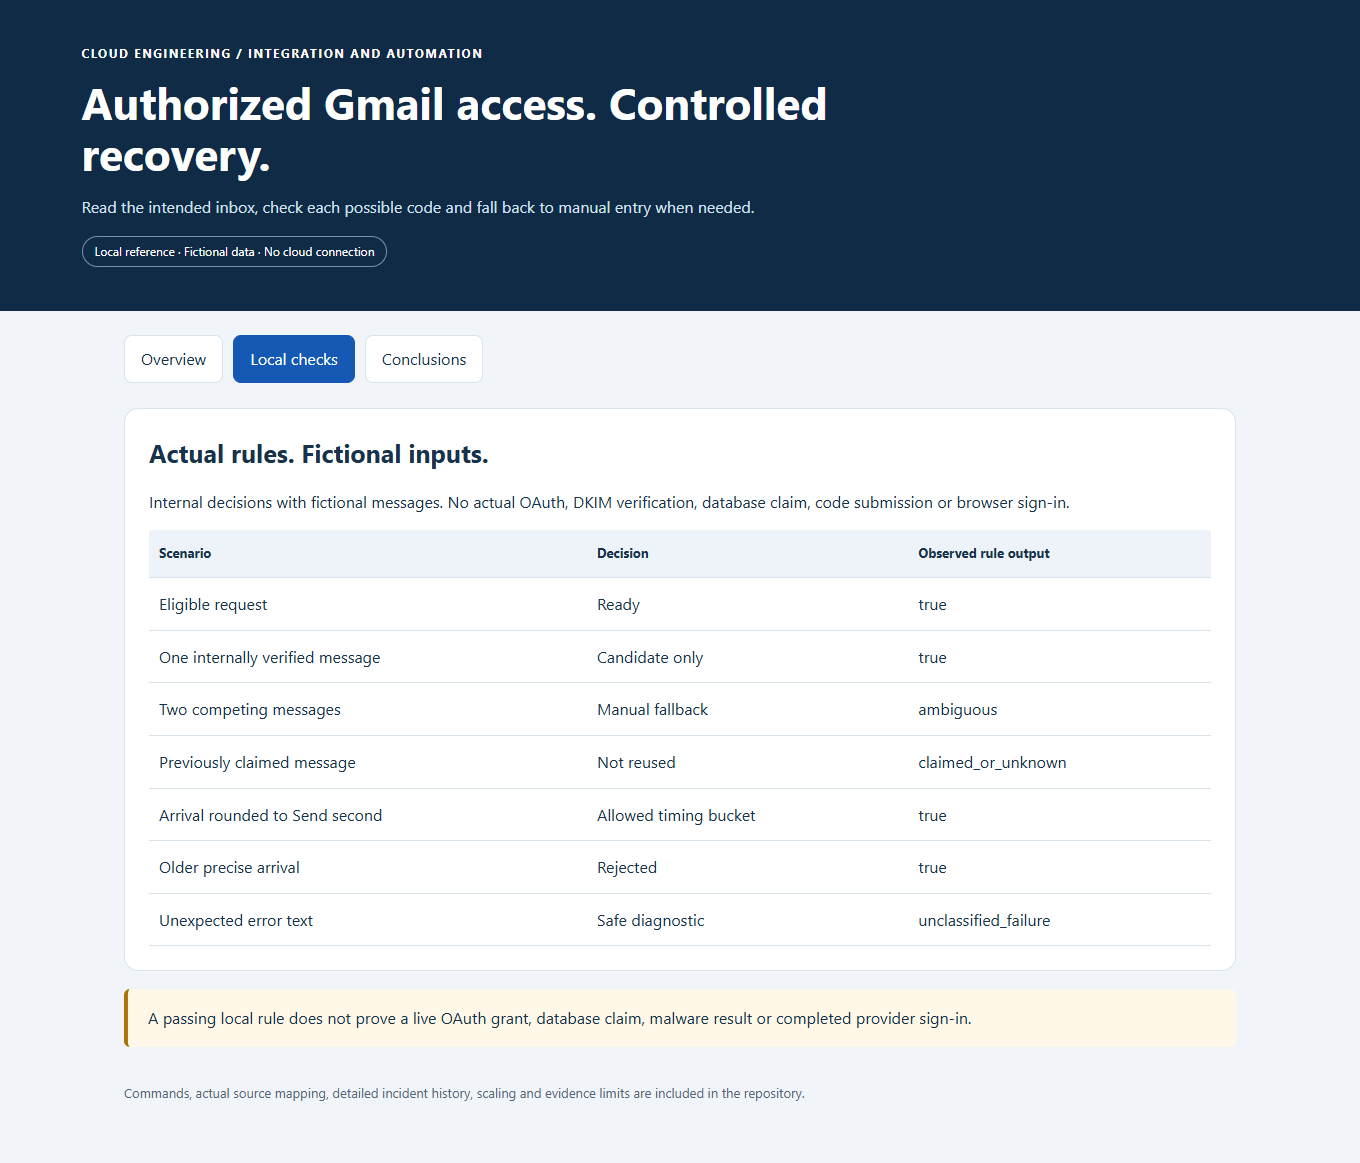
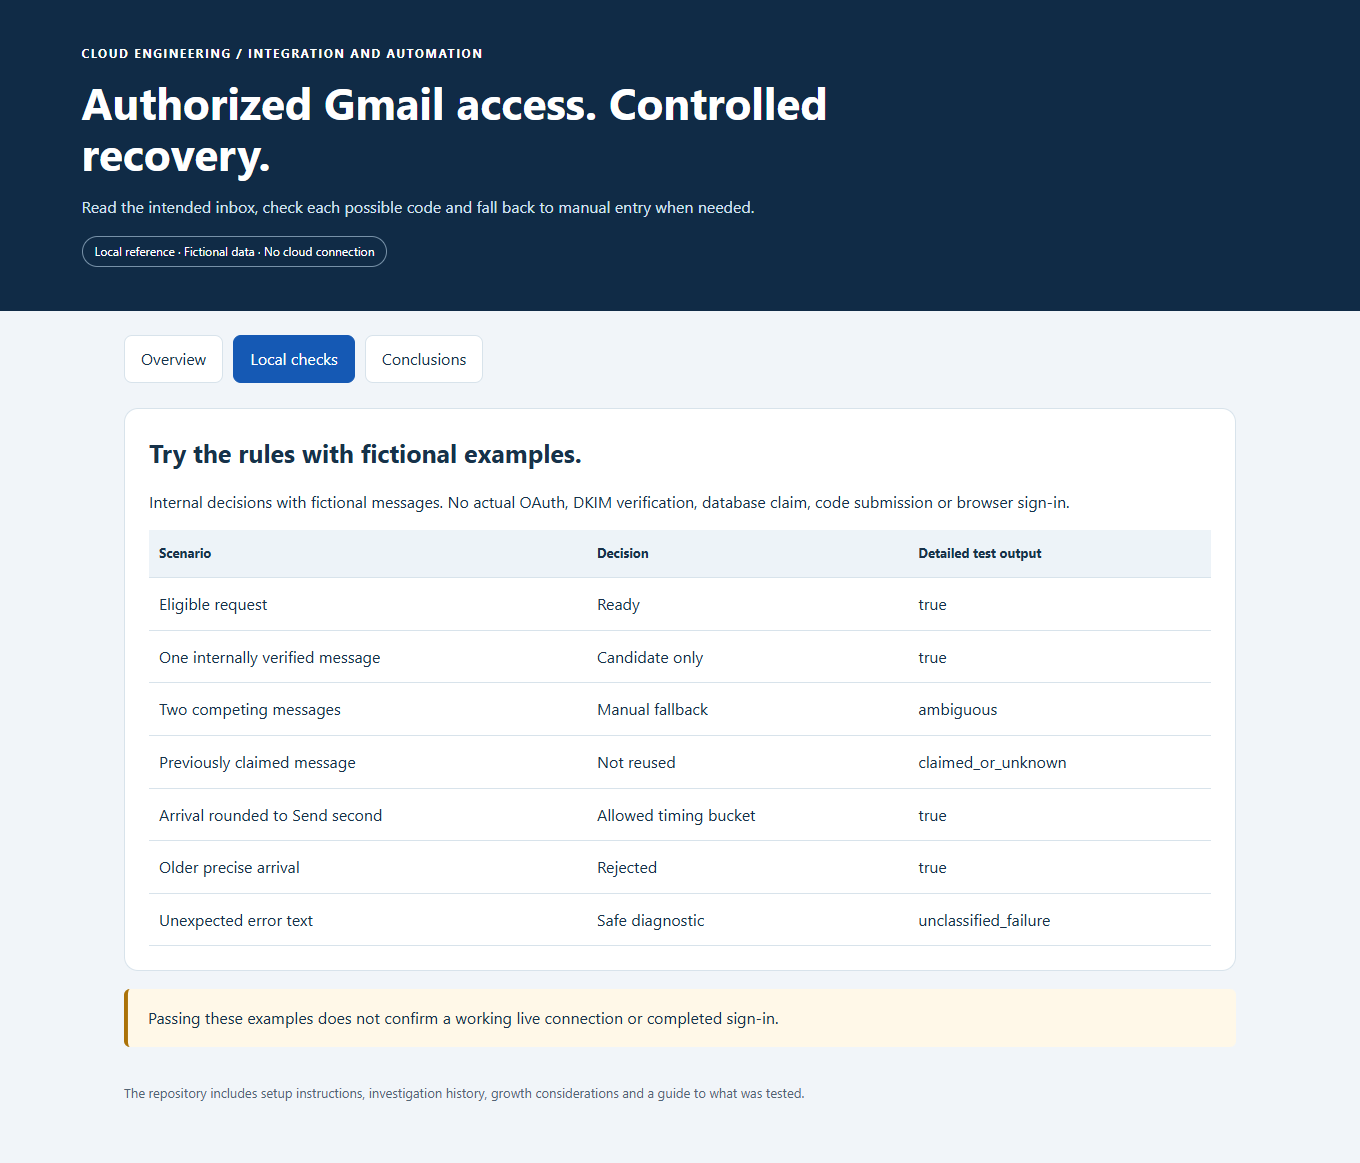
Lead with plain business explanations and retain technical detail separately

diff --git a/preview/index.html b/preview/index.html
@@ -3,8 +3,8 @@
 </style></head><body>
     <header><div class="eyebrow">Cloud engineering / Integration and automation</div><h1>Authorized Gmail access. Controlled recovery.</h1><p>Read the intended inbox, check each possible code and fall back to manual entry when needed.</p><span class="pill">Local reference · Fictional data · No cloud connection</span></header><main>
     <nav role="tablist" aria-label="Project sections"><button id="tab-overview" role="tab" aria-controls="overview" aria-selected="true">Overview</button><button id="tab-checks" role="tab" aria-controls="checks" aria-selected="false">Local checks</button><button id="tab-conclusions" role="tab" aria-controls="conclusions" aria-selected="false">Conclusions</button></nav>
-    <section id="overview" role="tabpanel" aria-labelledby="tab-overview"><div class="grid"><article class="card"><div class="big">1</div><p>Store authorization in Key Vault; verify the actual mailbox before reading.</p></article><article class="card"><div class="big">2</div><p>Select a fresh, verified message that matches the current reconnect attempt.</p></article><article class="card"><div class="big">3</div><p>Use the code once and encrypt it before passing it to the browser worker.</p></article></div><article class="box"><h2>Two related integrations. Different outcomes.</h2><p>The original document path uses Logic Apps, a custom Gmail connector, classification and quarantine. The later MFA attempt encountered connector creation failures and moved to direct Gmail API access.</p><p>Reusing an OAuth application does not share mailbox permission or processing history. Each integration must be authorized and checked separately.</p></article><div class="note"><strong>What this preview shows:</strong> Actual selected source and dated conclusions are included. This viewer performs no mailbox reads, code requests or cloud operations.</div></section>
-    <section id="checks" role="tabpanel" aria-labelledby="tab-checks" hidden><div class="box"><h2>Actual rules. Fictional inputs.</h2><p id="scope"></p><div class="table-wrap"><table><thead><tr><th>Scenario</th><th>Decision</th><th>Observed rule output</th></tr></thead><tbody id="results"></tbody></table></div></div><div class="note">A passing local rule does not prove a live OAuth grant, database claim, malware result or completed provider sign-in.</div></section>
-    <section id="conclusions" role="tabpanel" aria-labelledby="tab-conclusions" hidden><div class="box"><h2>What failed, what changed and what remains separate</h2><div class="step"><div class="number">1</div><div><h3>Attachment identity</h3><p>Keep the raw Gmail ID intact; use a separate fixed-size hash for storage.</p></div></div><div class="step"><div class="number">2</div><div><h3>Connector failure</h3><p>A valid connector definition did not resolve the HTTP 500 error during Azure resource creation.</p></div></div><div class="step"><div class="number">3</div><div><h3>MFA conclusion</h3><p>Direct Gmail retrieval removed the MFA connector dependency, while document handover stayed separate.</p></div></div><div class="step"><div class="number">4</div><div><h3>Time and competing sign-ins</h3><p>Correct timestamp precision; reject ambiguous messages rather than guessing.</p></div></div></div><div class="note"><strong>Unresolved connector cause:</strong> Azure creation failed before consent. Direct Gmail was a different path for MFA, not proof of a connector repair.</div></section>
-    <footer>Commands, actual source mapping, detailed incident history, scaling and evidence limits are included in the repository.</footer></main>
+    <section id="overview" role="tabpanel" aria-labelledby="tab-overview"><div class="grid"><article class="card"><div class="big">1</div><p>Store the mailbox permission securely, then confirm that the application reached the intended inbox.</p></article><article class="card"><div class="big">2</div><p>Select a fresh, verified message that matches the current reconnect attempt.</p></article><article class="card"><div class="big">3</div><p>Protect the code and use it once to complete the sign-in.</p></article></div><article class="box"><h2>Two related integrations. Different outcomes.</h2><p>One project files email documents. Another helps restore a business sign-in using an emailed code. They share some history, but use different processing steps and have different results.</p><p>Using the same Google application does not automatically share mailbox permission or processing records. Each connection must be authorized and checked separately.</p></article><div class="note"><strong>What this preview shows:</strong> The repository includes selected implementation code and historical results. This viewer uses fictional data and does not read email or connect to cloud services.</div></section>
+    <section id="checks" role="tabpanel" aria-labelledby="tab-checks" hidden><div class="box"><h2>Try the rules with fictional examples.</h2><p id="scope"></p><div class="table-wrap"><table><thead><tr><th>Scenario</th><th>Decision</th><th>Detailed test output</th></tr></thead><tbody id="results"></tbody></table></div></div><div class="note">Passing these examples does not confirm a working live connection or completed sign-in.</div></section>
+    <section id="conclusions" role="tabpanel" aria-labelledby="tab-conclusions" hidden><div class="box"><h2>What failed, what changed and what remains separate</h2><div class="step"><div class="number">1</div><div><h3>Original attachment references</h3><p>Keep the original attachment reference so the right file can be retrieved again.</p></div></div><div class="step"><div class="number">2</div><div><h3>Connector failure</h3><p>Azure returned a server error while creating the connection. A valid setup file did not fix it.</p></div></div><div class="step"><div class="number">3</div><div><h3>Separate sign-in recovery</h3><p>Direct Gmail access became the sign-in recovery approach. It did not repair the document connection.</p></div></div><div class="step"><div class="number">4</div><div><h3>Time and competing sign-ins</h3><p>Account for rounded email times and ask for manual help when more than one code could apply.</p></div></div></div><div class="note"><strong>Unresolved connector cause:</strong> The connection could not be created, before mailbox permission could be granted. Direct Gmail access was a separate approach, not a connector repair.</div></section>
+    <footer>The repository includes setup instructions, investigation history, growth considerations and a guide to what was tested.</footer></main>
     <script>const tabs=[...document.querySelectorAll('[role=tab]')];function select(tab){for(const t of tabs){t.setAttribute('aria-selected',String(t===tab));document.getElementById(t.getAttribute('aria-controls')).hidden=t!==tab}}for(const tab of tabs){tab.addEventListener('click',()=>select(tab));tab.addEventListener('keydown',e=>{if(['ArrowLeft','ArrowRight'].includes(e.key)){e.preventDefault();const next=tabs[(tabs.indexOf(tab)+(e.key==='ArrowRight'?1:-1)+tabs.length)%tabs.length];select(next);next.focus()}})}fetch('/data.json').then(r=>{if(!r.ok)throw Error('Reference data could not be loaded');return r.json()}).then(data=>{document.getElementById('scope').textContent=data.scope;for(const values of data.results){const tr=document.createElement('tr');for(const value of values){const td=document.createElement('td');td.textContent=value;tr.append(td)}document.getElementById('results').append(tr)}}).catch(e=>{const p=document.createElement('p');p.setAttribute('role','alert');p.textContent=e.message;document.querySelector('main').prepend(p)});</script></body></html>

diff --git a/README.md b/README.md
@@ -1,6 +1,6 @@
 # Gmail API Access and Provider MFA Recovery
 
-**Read an authorized inbox safely and use a verified email code to recover a business connection.**
+**Help restore a business connection using the right email verification code, with manual help when needed.**
 
 [Business problem](#the-business-problem) · [Solution](#the-solution) · [Conclusions](#why-direct-gmail-access) · [Proof](#proof-it-works) · [Commands](docs/COMMANDS.md)
 
@@ -8,49 +8,57 @@
 
 ## The Business Problem
 
-A business-report connection could require an emailed verification code after its saved session stopped working. Staff then had to notice the failure and reconnect. A reliable helper needed to read the intended inbox, avoid old or competing messages and keep codes and credentials out of logs.
+The platform imports reports from an external business service. Sometimes its saved sign-in stops working and the service emails a verification code. Staff then have to notice the failure and reconnect.
+
+Automating that step requires care: an older code, a message for another account or a code from a separate browser sign-in could be the wrong one.
 
 ## The Solution
 
-After an Azure custom-connector attempt failed during creation, use the direct Gmail API with the existing approved Google OAuth application. Keep authorization material in Azure Key Vault, check the actual mailbox before reading messages and check that each possible code belongs to the current reconnect attempt. The full application verifies the message, allows the code to be used once and encrypts it before passing it to the browser worker. It saves the session only after confirming access to protected provider pages.
+I used Google's Gmail API—the supported interface for programs to read Gmail—to check an authorized inbox. The application verifies the account and message, then passes a suitable code securely to the component handling the sign-in.
 
-**Business outcome:** The platform gained a controlled recovery path with manual fallback rather than relying on repeated staff inbox checks or an unproven connector retry. This does not promise permanent provider sessions or unattended recovery from every failure.
+The mailbox owner grants permission through Google. The saved authorization is protected in Azure Key Vault, a service for storing secrets. When messages are unclear or the request has expired, the process falls back to manual entry.
+
+**Business outcome:** The platform has a controlled way to recover the connection without depending entirely on staff watching the inbox. It still needs manual help in some cases.
+
+MFA means multi-factor authentication: an extra verification step beyond the initial sign-in. In this case, that step uses an emailed code.
 
 ## Architecture
 
 ```mermaid
 flowchart LR
-  Consent[Owner authorizes intended Gmail inbox] --> Vault[Protected authorization in Key Vault]
-  API[API lookup timer and request state] --> Vault
-  Vault --> OAuth[Refresh short-lived access token]
-  OAuth --> Gmail[Verify account and read bounded Gmail results]
-  Gmail --> Verify[Verify sender, recipient, template and time]
-  Verify --> Claim[Atomic SQL claim and encrypted command]
-  Claim --> Worker[Private browser worker]
-  Worker --> Session[Verify access and save session]
-  Verify -->|Uncertain or expired| Manual[Manual reconnect]
+  Owner[Owner authorizes the inbox] --> Permission[Store permission securely]
+  Reconnect[Start a reconnect attempt] --> Inbox[Check the intended inbox]
+  Permission --> Inbox
+  Inbox --> Message[Check the message and its timing]
+  Message -->|One suitable message| SignIn[Use the code securely]
+  SignIn --> Confirm[Confirm access and save the sign-in]
+  Message -->|Unclear or expired| Manual[Ask for manual entry]
 ```
-
-The API owns lookup and request state; the worker owns provider navigation and session storage. This direct Gmail implementation does **not** depend on a deployed Logic App or Azure Gmail connector.
 
 ## What Was Built
 
-| Component | Purpose | Code |
+| Part | What it does | Details |
 | --- | --- | --- |
-| Restricted Gmail API client | Restrict endpoints, response size, redirects, deadlines, scope and mailbox identity | [Transport](src/gmailTransport.ts) |
-| Reconnect request checks | Permit only a current, verified request with time and pagination limits | [Planner](src/mailbox/mailbox-plan.js) |
-| Message discovery and selection | Finish bounded discovery, reject duplicate IDs and ambiguous or untrusted messages | [Enumeration](src/mailbox/enumerate-mail.js), [selection](src/mailbox/mailbox-candidate.js) |
-| Email timing correction | Compare request and message times at their available whole-second precision | [Timing rule](src/mailbox/candidate-binding.js) |
-| Message verification and secure storage | Verify raw email, read Key Vault, atomically claim and submit an encrypted command | [Verifier](reference/gmailMessage.ts), [lookup](reference/gmailLookup.ts), [store](reference/gmailLookupStore.ts) |
-| Retained failed connector definition | Explain the attempted approach without activating it | [Historical Terraform](infra/connector-history/main.tf) |
+| Gmail connection | Reads only approved Google service addresses and checks the mailbox account. | [Connection code](src/gmailTransport.ts) |
+| Message selection | Limits the search and rejects old, duplicate or competing messages. | [Selection rules](src/mailbox/mailbox-candidate.js) |
+| Timing correction | Handles an email time rounded to whole seconds without generally allowing older codes. | [Timing rules](src/mailbox/candidate-binding.js) |
+| Protected code handling | Verifies the email, prevents reuse and encrypts the code before handing it over. | [Verification](reference/gmailMessage.ts) and [storage](reference/gmailLookupStore.ts) |
+| Manual fallback | Leaves uncertain cases for a person instead of guessing. | [Operating guide](docs/OPERATIONS-AND-SCALING.md) |
 
 ## Why Direct Gmail Access?
 
-The connector definition passed validation, but Azure returned HTTP 500 while creating the resource, before sign-in or mailbox access. No actionable service root cause was established. A support request was accepted asynchronously and then failed eligibility checks; that was not an opened support case.
+An earlier attempt used an Azure connector, a service that links applications. Its definition passed validation, but Azure returned HTTP 500 while creating it, before mailbox access could begin. The underlying service cause was not established.
 
-Direct API retrieval removed that connector dependency for MFA. It added responsibility for OAuth refresh, account checking, email parsing, message verification and ambiguity handling. The [original Logic Apps ingestion project](https://github.com/truthofsource/azure-logic-apps-document-ingestion) remains a separate workload. Reusing a Google project does not share permissions or prove that both integrations work.
+Direct Gmail access avoided that connector for the sign-in recovery process. It did not fix the separate [email document-ingestion project](https://github.com/truthofsource/azure-logic-apps-document-ingestion). Reusing the same Google project does not share mailbox permissions or prove both integrations work.
 
 ## Proof It Works
+
+**27 recorded local tests passed** using fictional emails and simulated Google responses. They checked the account restrictions, search limits and message-selection rules.
+
+Historical operating records also describe a corrected reconnect and reuse of the saved sign-in. The local examples do not repeat a real mailbox connection or live sign-in. [Results and limits](docs/VALIDATION.md).
+
+<details>
+<summary>For engineers: detailed results, examples and commands</summary>
 
 ### 1. Run local transport and selection checks
 
@@ -77,15 +85,18 @@ python -B scripts/preview.py --port 8141
 
 Open [the local reference](http://127.0.0.1:8141). No real messages, codes, OAuth credentials or account data are displayed. [Validation](docs/VALIDATION.md) separates local checks from dated platform acceptance.
 
+</details>
+
 ## Strengths, Weaknesses and Tradeoffs
 
-| Choice | Strength | Limitation |
-| --- | --- | --- |
-| Direct Gmail API | Avoids the failed Azure connector dependency | The application must own token refresh and API failure handling |
-| Read-only scope | Prevents message edits and sends through this authorization | The permission can still read the authorized mailbox broadly; application filters do not narrow the OAuth scope |
-| Verified single candidate | Reduces stale-message and wrong-code selection | External emails lack a unique application request ID; some cases require manual help |
-| One claim and encrypted command | Prevents reuse and keeps the code out of persisted plaintext | The database, request ownership and worker encryption keys must stay in sync |
-| Bounded attempts and fallback | Avoids resend loops and excessive sign-in attempts | Staff may still need to reconnect after an expired or failed attempt |
+| Benefit | What still needs attention |
+| --- | --- |
+| Avoids the failed connector dependency | The application must handle permission renewal and Google service errors. |
+| Does not edit or send email through this permission | Read-only access still allows the application to read the authorized mailbox. |
+| Rejects unclear messages | Two suitable messages may require manual entry, even if they contain the same code. |
+| Protects codes and prevents reuse | The database, encryption keys and sign-in component must work together. |
+
+For more accounts or more frequent reconnects, measure delays, service limits and manual fallbacks first. Keep each account's requests separate. [Growth and operations](docs/OPERATIONS-AND-SCALING.md).
 
 ## Guides
 

diff --git a/docs/VALIDATION.md b/docs/VALIDATION.md
@@ -30,3 +30,15 @@ scripts remained unchanged; this pass changed text and screenshots only.
 
 These browser checks did not repeat cloud acceptance or the earlier code tests.
 No Azure service, Gmail account, provider session or hosted Actions run was used.
+
+## Plain-language review - November 7, 2026
+
+The main overview now starts with the business problem, the solution and the
+practical outcome. Technical commands and detailed results remain available in
+expandable sections and linked guides. Links, heading anchors, formatting and
+expandable sections were checked. Earlier code-test and cloud results remain
+historical; this wording pass did not repeat those tests.
+
+The fictional preview was also simplified, its screenshots refreshed, and its
+desktop tabs and 390-pixel mobile layout checked locally. Browser requests were
+restricted to the local preview; HTML structure and embedded scripts were unchanged.
